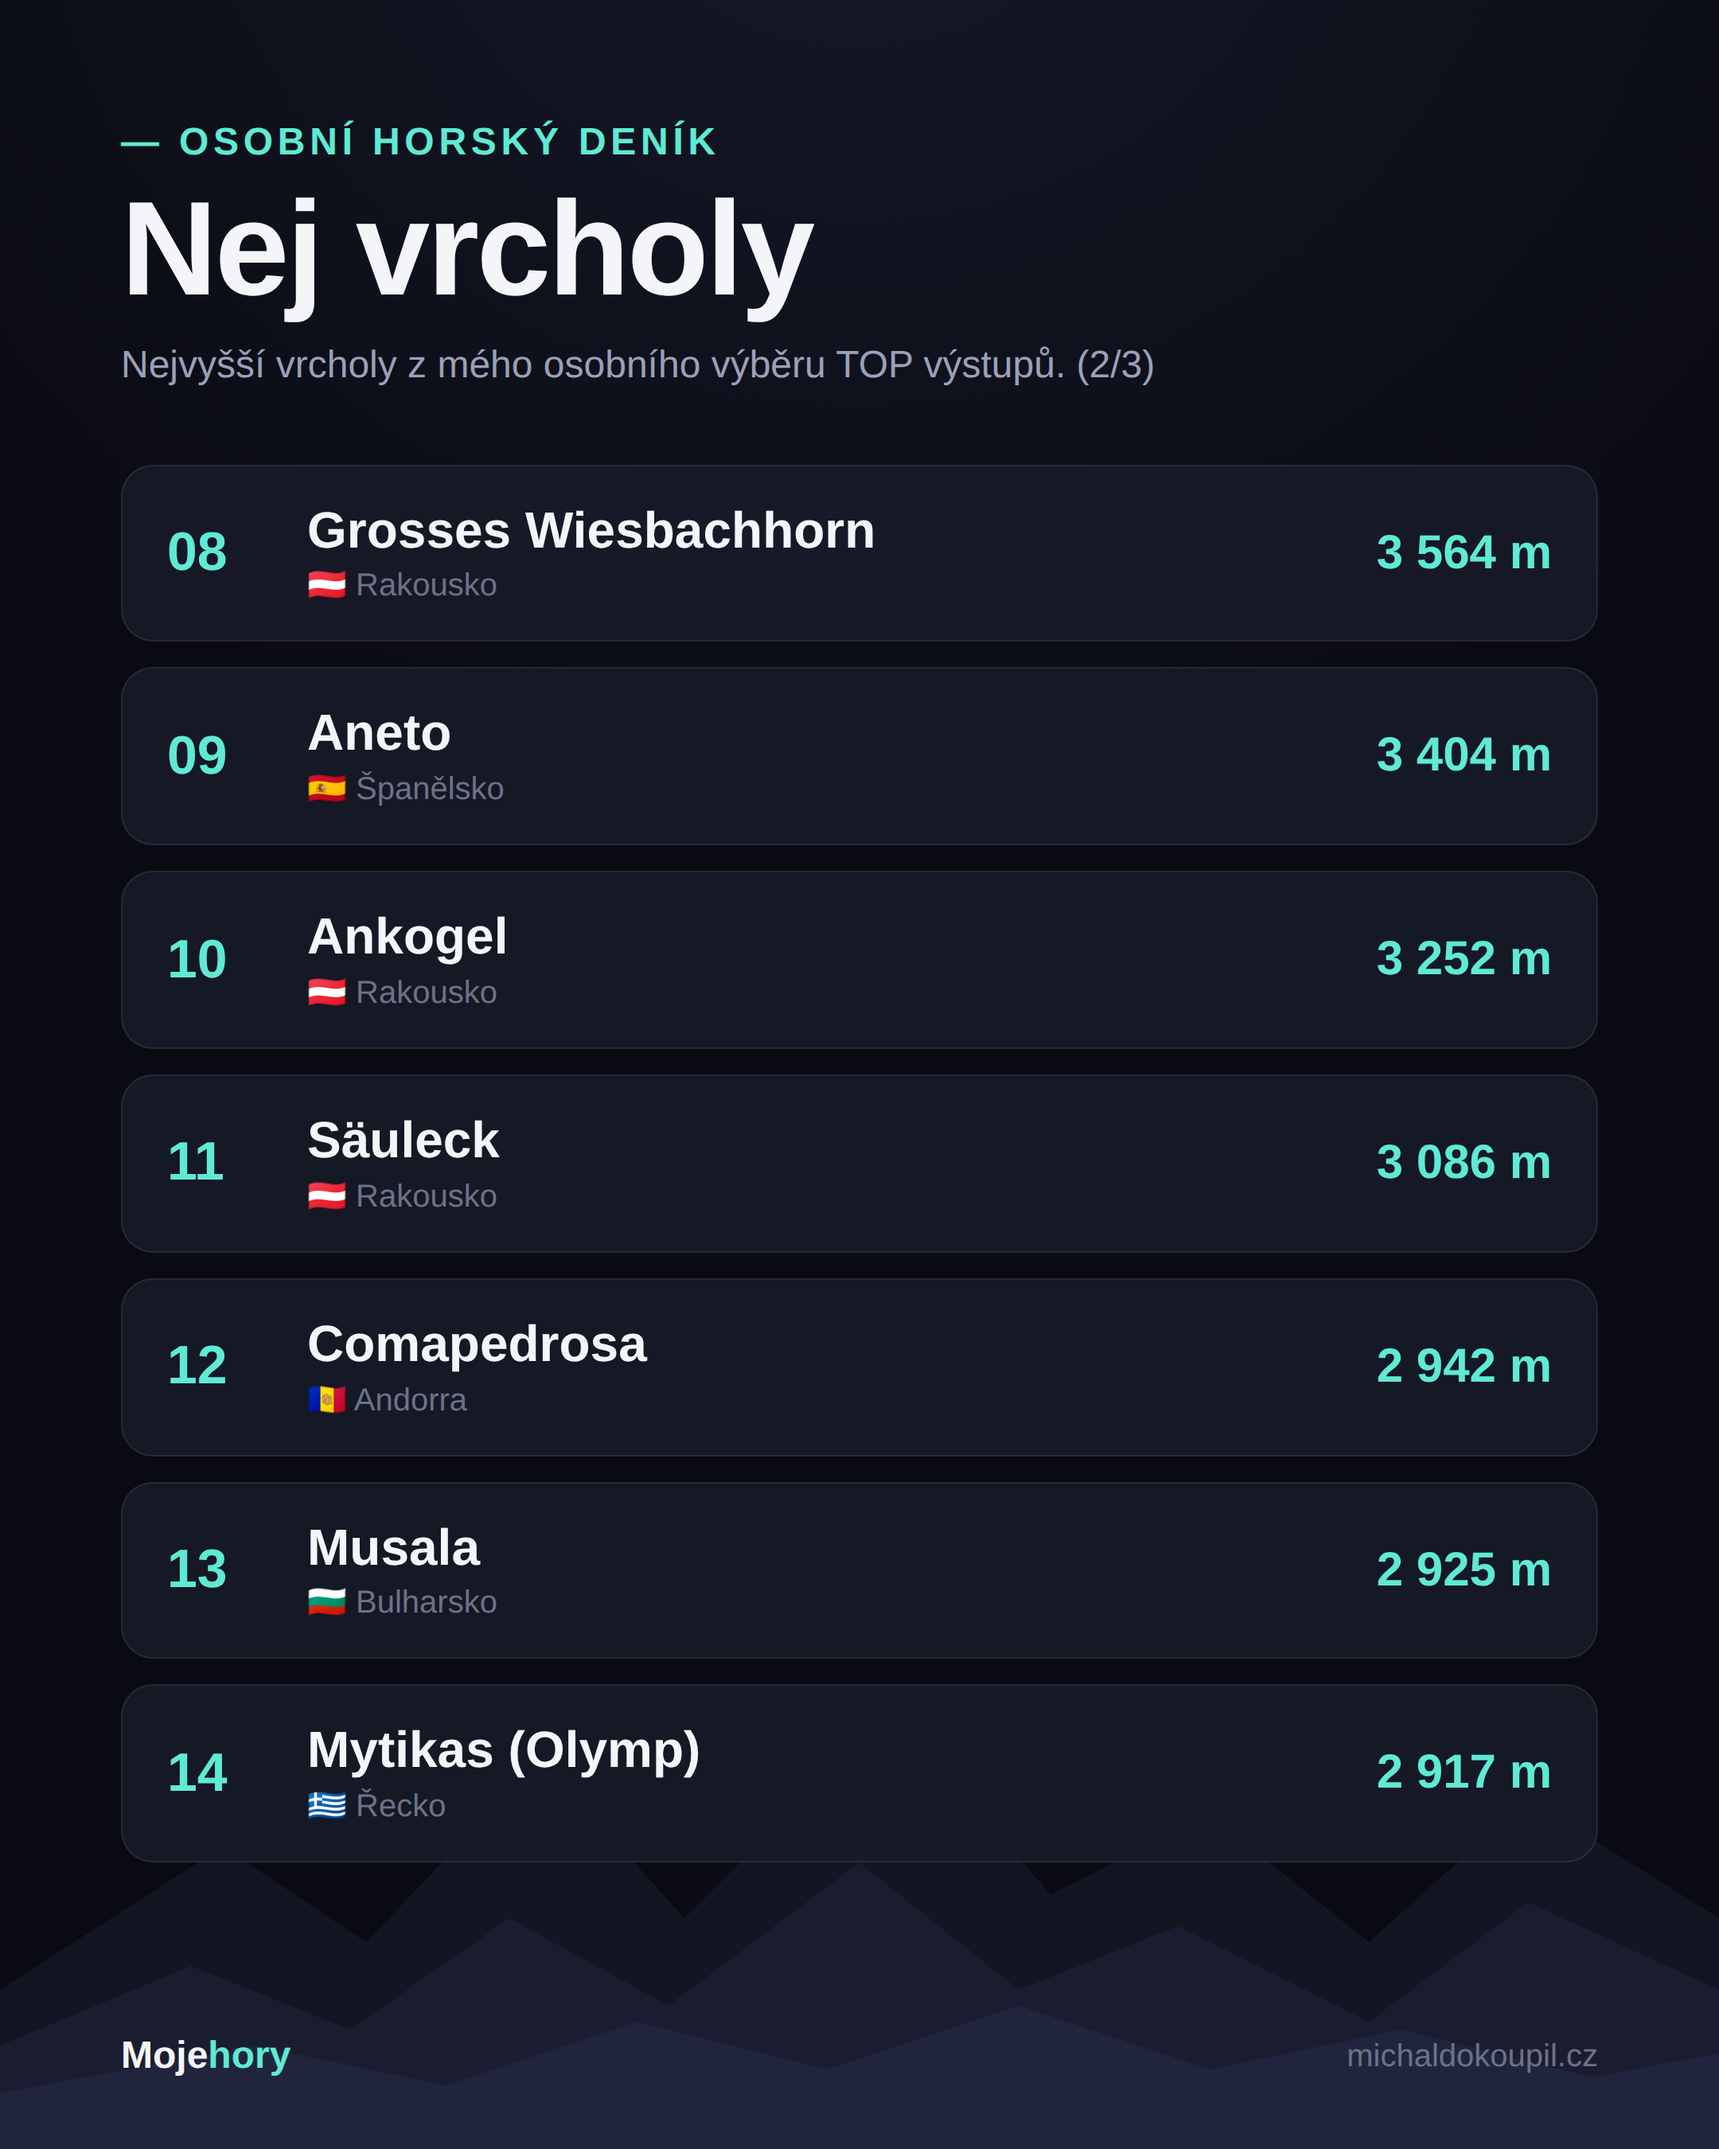
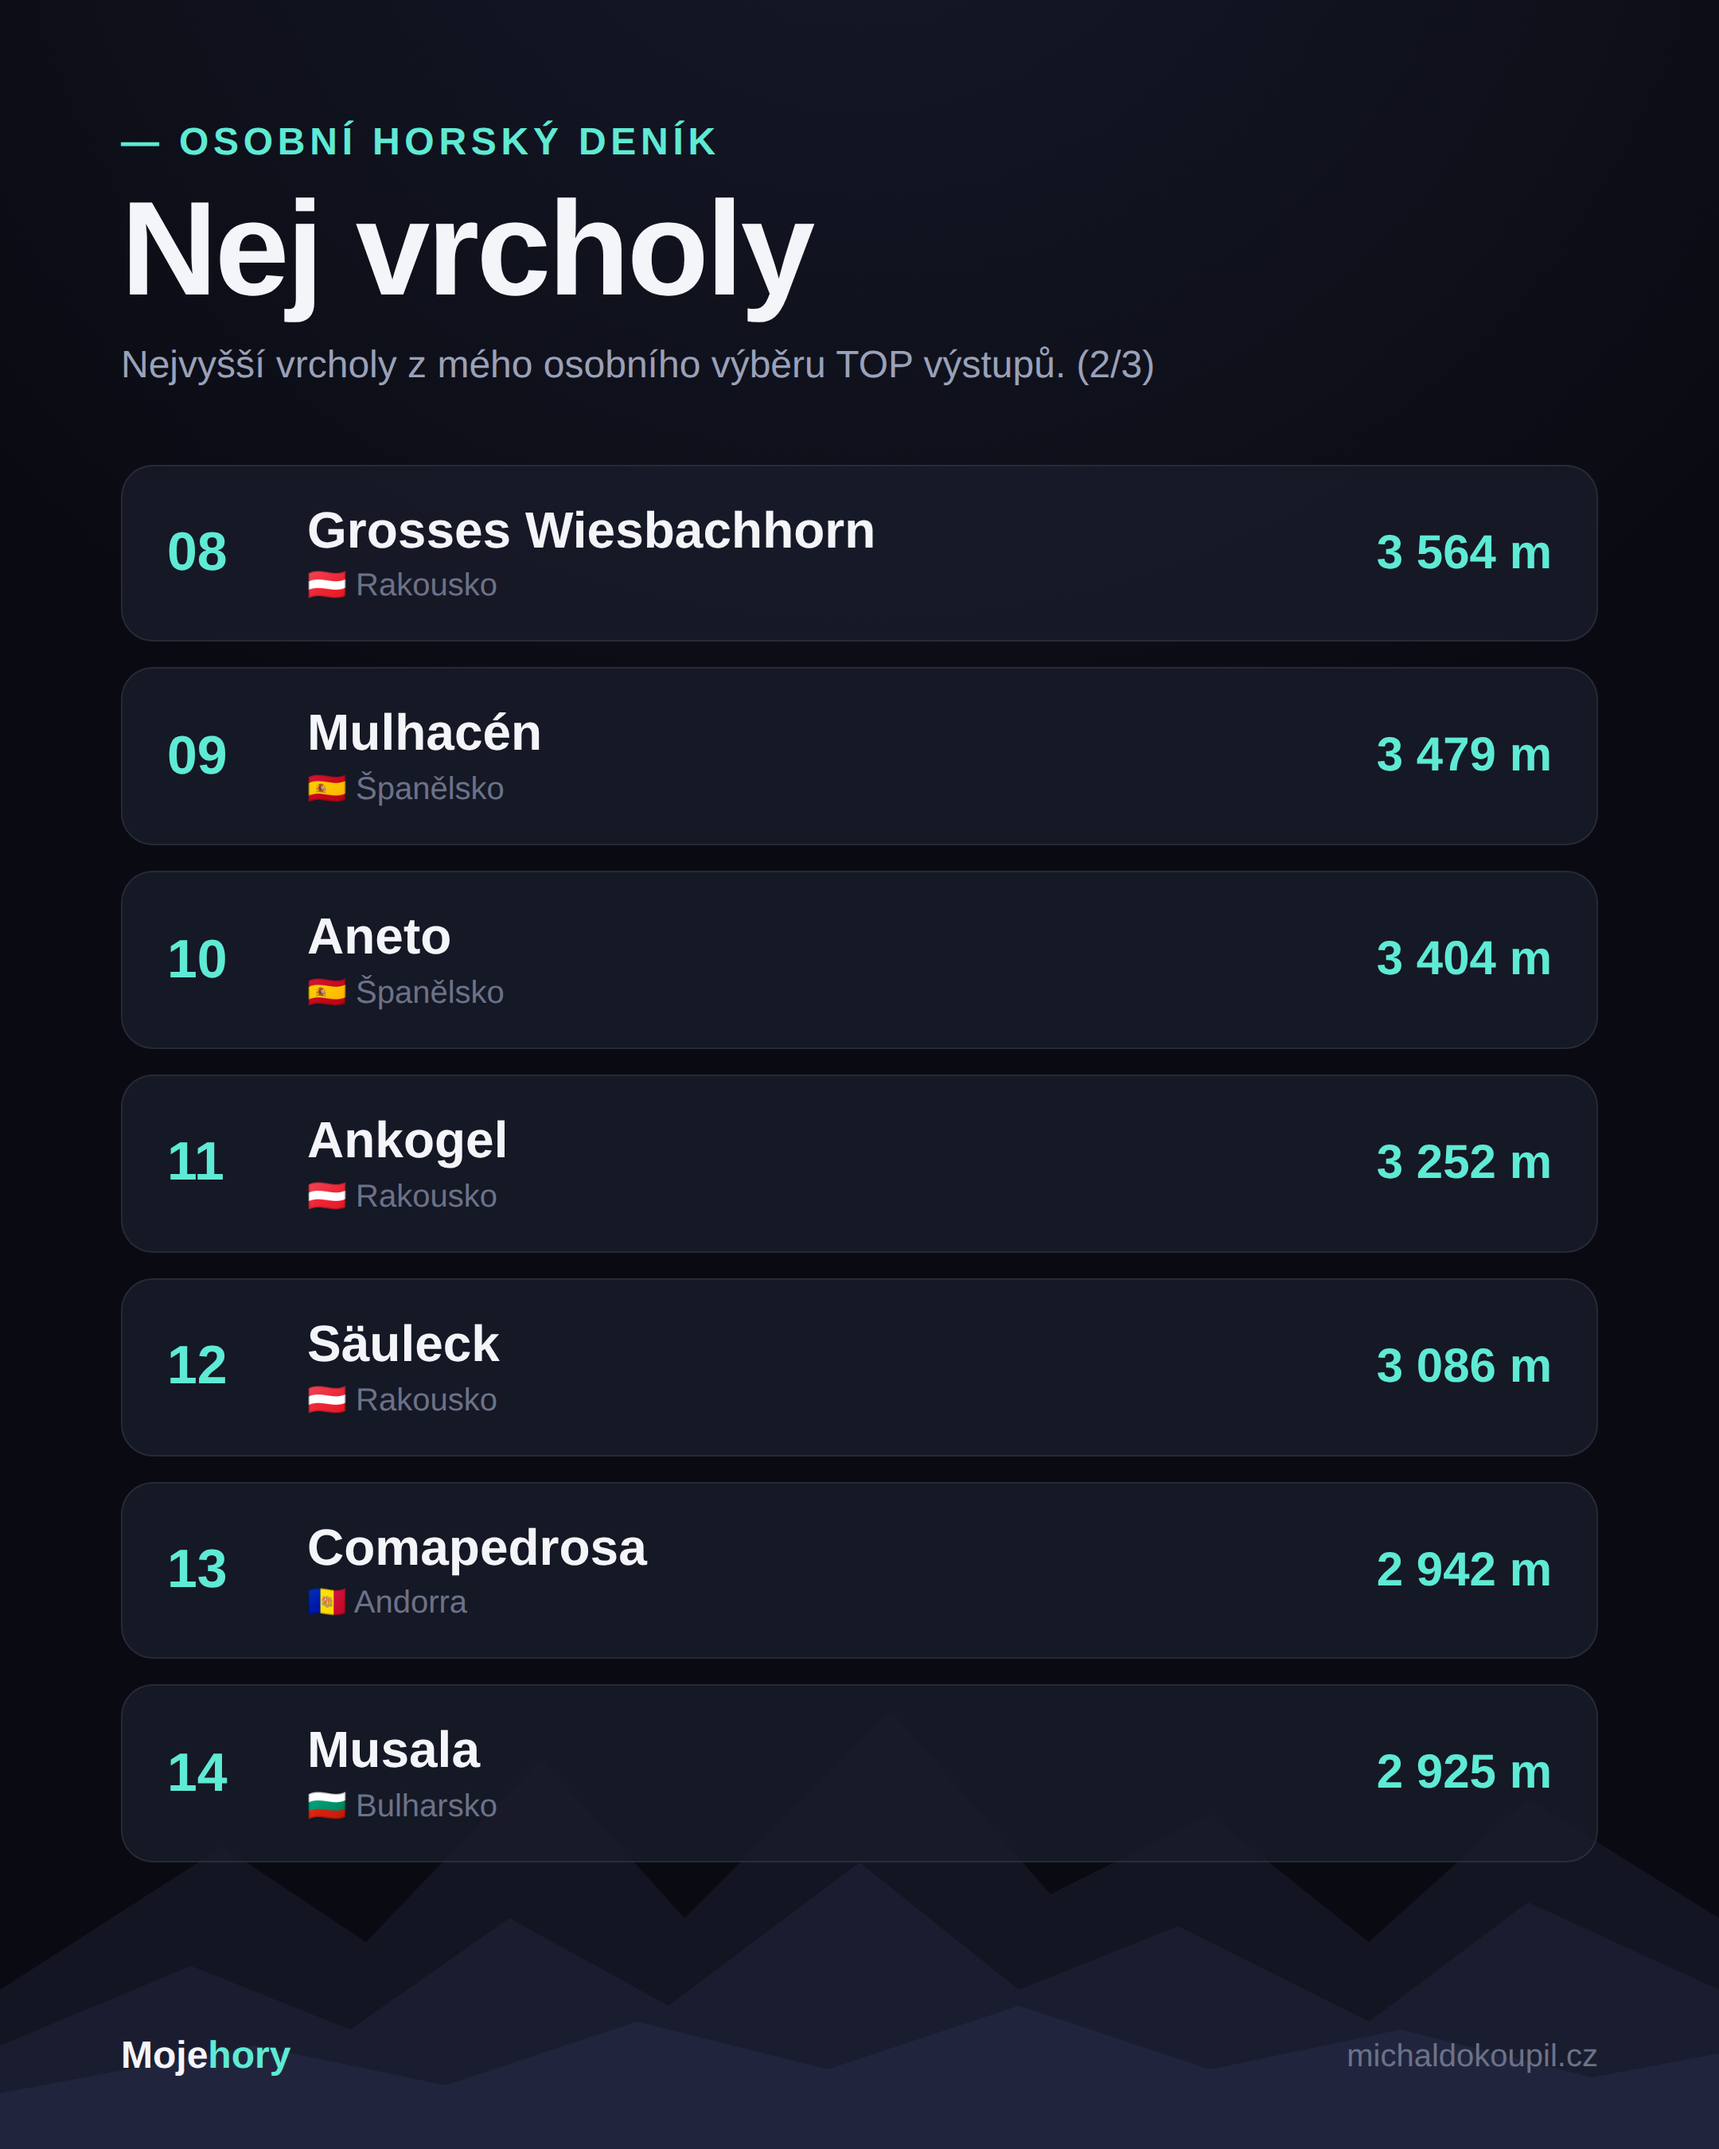
Přidat Mulhacén do TOP vrcholů (poslední chybějící 3000+)
Claude-Session: https://claude.ai/code/session_0119SFwnctGoA3U4LfHXsjFS

diff --git a/ferraty/widget/moje-hory-widget.html b/ferraty/widget/moje-hory-widget.html
@@ -167,7 +167,7 @@
     <div class="mh-widget-section">
       <div class="mh-widget-section__head">Nej vrcholy</div>
       
-      <div class="mh-widget-rows"><div class="mh-widget-row"><div class="mh-widget-row__main"><span class="mh-widget-row__name">Kazbek</span><span class="mh-widget-row__meta">🇬🇪 Gruzie</span></div><div class="mh-widget-row__value">5 047 m</div></div><div class="mh-widget-row"><div class="mh-widget-row__main"><span class="mh-widget-row__name">Toubkal</span><span class="mh-widget-row__meta">🇲🇦 Maroko</span></div><div class="mh-widget-row__value">4 167 m</div></div><div class="mh-widget-row"><div class="mh-widget-row__main"><span class="mh-widget-row__name">Aragats (severní vrchol)</span><span class="mh-widget-row__meta">🇦🇲 Arménie</span></div><div class="mh-widget-row__value">4 090 m</div></div><div class="mh-widget-row"><div class="mh-widget-row__main"><span class="mh-widget-row__name">Gran Paradiso</span><span class="mh-widget-row__meta">🇮🇹 Itálie</span></div><div class="mh-widget-row__value">4 061 m</div></div><div class="mh-widget-row"><div class="mh-widget-row__main"><span class="mh-widget-row__name">Grossglockner</span><span class="mh-widget-row__meta">🇦🇹 Rakousko</span></div><div class="mh-widget-row__value">3 798 m</div></div><div class="mh-widget-row"><div class="mh-widget-row__main"><span class="mh-widget-row__name">Teide</span><span class="mh-widget-row__meta">🇪🇸 Španělsko</span></div><div class="mh-widget-row__value">3 715 m</div></div><div class="mh-widget-row"><div class="mh-widget-row__main"><span class="mh-widget-row__name">Grossvenediger</span><span class="mh-widget-row__meta">🇦🇹 Rakousko</span></div><div class="mh-widget-row__value">3 657 m</div></div><div class="mh-widget-row"><div class="mh-widget-row__main"><span class="mh-widget-row__name">Grosses Wiesbachhorn</span><span class="mh-widget-row__meta">🇦🇹 Rakousko</span></div><div class="mh-widget-row__value">3 564 m</div></div><div class="mh-widget-row"><div class="mh-widget-row__main"><span class="mh-widget-row__name">Aneto</span><span class="mh-widget-row__meta">🇪🇸 Španělsko</span></div><div class="mh-widget-row__value">3 404 m</div></div><div class="mh-widget-row"><div class="mh-widget-row__main"><span class="mh-widget-row__name">Ankogel</span><span class="mh-widget-row__meta">🇦🇹 Rakousko</span></div><div class="mh-widget-row__value">3 252 m</div></div><div class="mh-widget-row"><div class="mh-widget-row__main"><span class="mh-widget-row__name">Säuleck</span><span class="mh-widget-row__meta">🇦🇹 Rakousko</span></div><div class="mh-widget-row__value">3 086 m</div></div><div class="mh-widget-row"><div class="mh-widget-row__main"><span class="mh-widget-row__name">Comapedrosa</span><span class="mh-widget-row__meta">🇦🇩 Andorra</span></div><div class="mh-widget-row__value">2 942 m</div></div><div class="mh-widget-row"><div class="mh-widget-row__main"><span class="mh-widget-row__name">Musala</span><span class="mh-widget-row__meta">🇧🇬 Bulharsko</span></div><div class="mh-widget-row__value">2 925 m</div></div><div class="mh-widget-row"><div class="mh-widget-row__main"><span class="mh-widget-row__name">Mytikas (Olymp)</span><span class="mh-widget-row__meta">🇬🇷 Řecko</span></div><div class="mh-widget-row__value">2 917 m</div></div><div class="mh-widget-row"><div class="mh-widget-row__main"><span class="mh-widget-row__name">Vihren</span><span class="mh-widget-row__meta">🇧🇬 Bulharsko</span></div><div class="mh-widget-row__value">2 914 m</div></div><div class="mh-widget-row"><div class="mh-widget-row__main"><span class="mh-widget-row__name">Triglav</span><span class="mh-widget-row__meta">🇸🇮 Slovinsko</span></div><div class="mh-widget-row__value">2 864 m</div></div></div>
+      <div class="mh-widget-rows"><div class="mh-widget-row"><div class="mh-widget-row__main"><span class="mh-widget-row__name">Kazbek</span><span class="mh-widget-row__meta">🇬🇪 Gruzie</span></div><div class="mh-widget-row__value">5 047 m</div></div><div class="mh-widget-row"><div class="mh-widget-row__main"><span class="mh-widget-row__name">Toubkal</span><span class="mh-widget-row__meta">🇲🇦 Maroko</span></div><div class="mh-widget-row__value">4 167 m</div></div><div class="mh-widget-row"><div class="mh-widget-row__main"><span class="mh-widget-row__name">Aragats (severní vrchol)</span><span class="mh-widget-row__meta">🇦🇲 Arménie</span></div><div class="mh-widget-row__value">4 090 m</div></div><div class="mh-widget-row"><div class="mh-widget-row__main"><span class="mh-widget-row__name">Gran Paradiso</span><span class="mh-widget-row__meta">🇮🇹 Itálie</span></div><div class="mh-widget-row__value">4 061 m</div></div><div class="mh-widget-row"><div class="mh-widget-row__main"><span class="mh-widget-row__name">Grossglockner</span><span class="mh-widget-row__meta">🇦🇹 Rakousko</span></div><div class="mh-widget-row__value">3 798 m</div></div><div class="mh-widget-row"><div class="mh-widget-row__main"><span class="mh-widget-row__name">Teide</span><span class="mh-widget-row__meta">🇪🇸 Španělsko</span></div><div class="mh-widget-row__value">3 715 m</div></div><div class="mh-widget-row"><div class="mh-widget-row__main"><span class="mh-widget-row__name">Grossvenediger</span><span class="mh-widget-row__meta">🇦🇹 Rakousko</span></div><div class="mh-widget-row__value">3 657 m</div></div><div class="mh-widget-row"><div class="mh-widget-row__main"><span class="mh-widget-row__name">Grosses Wiesbachhorn</span><span class="mh-widget-row__meta">🇦🇹 Rakousko</span></div><div class="mh-widget-row__value">3 564 m</div></div><div class="mh-widget-row"><div class="mh-widget-row__main"><span class="mh-widget-row__name">Mulhacén</span><span class="mh-widget-row__meta">🇪🇸 Španělsko</span></div><div class="mh-widget-row__value">3 479 m</div></div><div class="mh-widget-row"><div class="mh-widget-row__main"><span class="mh-widget-row__name">Aneto</span><span class="mh-widget-row__meta">🇪🇸 Španělsko</span></div><div class="mh-widget-row__value">3 404 m</div></div><div class="mh-widget-row"><div class="mh-widget-row__main"><span class="mh-widget-row__name">Ankogel</span><span class="mh-widget-row__meta">🇦🇹 Rakousko</span></div><div class="mh-widget-row__value">3 252 m</div></div><div class="mh-widget-row"><div class="mh-widget-row__main"><span class="mh-widget-row__name">Säuleck</span><span class="mh-widget-row__meta">🇦🇹 Rakousko</span></div><div class="mh-widget-row__value">3 086 m</div></div><div class="mh-widget-row"><div class="mh-widget-row__main"><span class="mh-widget-row__name">Comapedrosa</span><span class="mh-widget-row__meta">🇦🇩 Andorra</span></div><div class="mh-widget-row__value">2 942 m</div></div><div class="mh-widget-row"><div class="mh-widget-row__main"><span class="mh-widget-row__name">Musala</span><span class="mh-widget-row__meta">🇧🇬 Bulharsko</span></div><div class="mh-widget-row__value">2 925 m</div></div><div class="mh-widget-row"><div class="mh-widget-row__main"><span class="mh-widget-row__name">Mytikas (Olymp)</span><span class="mh-widget-row__meta">🇬🇷 Řecko</span></div><div class="mh-widget-row__value">2 917 m</div></div><div class="mh-widget-row"><div class="mh-widget-row__main"><span class="mh-widget-row__name">Vihren</span><span class="mh-widget-row__meta">🇧🇬 Bulharsko</span></div><div class="mh-widget-row__value">2 914 m</div></div></div>
     </div>
     <div class="mh-widget-section">
       <div class="mh-widget-section__head">Nej ferraty</div>

diff --git a/ferraty/social/moje-hory-social-4x5-4-vrcholy-3.html b/ferraty/social/moje-hory-social-4x5-4-vrcholy-3.html
@@ -50,31 +50,36 @@
   <div class="ranklist">
     <div class="rank-row">
       <div class="rank-num">15</div>
+      <div class="rank-main"><div class="rank-name">Mytikas (Olymp)</div><div class="rank-meta">🇬🇷 Řecko</div></div>
+      <div class="rank-value">2 917 m</div>
+    </div>
+    <div class="rank-row">
+      <div class="rank-num">16</div>
       <div class="rank-main"><div class="rank-name">Vihren</div><div class="rank-meta">🇧🇬 Bulharsko</div></div>
       <div class="rank-value">2 914 m</div>
     </div>
     <div class="rank-row">
-      <div class="rank-num">16</div>
+      <div class="rank-num">17</div>
       <div class="rank-main"><div class="rank-name">Triglav</div><div class="rank-meta">🇸🇮 Slovinsko</div></div>
       <div class="rank-value">2 864 m</div>
     </div>
     <div class="rank-row">
-      <div class="rank-num">17</div>
+      <div class="rank-num">18</div>
       <div class="rank-main"><div class="rank-name">Gerlachovský štít</div><div class="rank-meta">🇸🇰 Slovensko</div></div>
       <div class="rank-value">2 655 m</div>
     </div>
     <div class="rank-row">
-      <div class="rank-num">18</div>
+      <div class="rank-num">19</div>
       <div class="rank-main"><div class="rank-name">Moldoveanu</div><div class="rank-meta">🇷🇴 Rumunsko</div></div>
       <div class="rank-value">2 544 m</div>
     </div>
     <div class="rank-row">
-      <div class="rank-num">19</div>
+      <div class="rank-num">20</div>
       <div class="rank-main"><div class="rank-name">Lysá hora</div><div class="rank-meta">🇨🇿 Česko</div></div>
       <div class="rank-value">1 323 m</div>
     </div>
     <div class="rank-row">
-      <div class="rank-num">20</div>
+      <div class="rank-num">21</div>
       <div class="rank-main"><div class="rank-name">Smrk (Beskydy)</div><div class="rank-meta">🇨🇿 Česko</div></div>
       <div class="rank-value">1 276 m</div>
     </div>

diff --git a/ferraty/social/moje-hory-social-4x5-3-vrcholy-2.html b/ferraty/social/moje-hory-social-4x5-3-vrcholy-2.html
@@ -55,33 +55,33 @@
     </div>
     <div class="rank-row">
       <div class="rank-num">09</div>
+      <div class="rank-main"><div class="rank-name">Mulhacén</div><div class="rank-meta">🇪🇸 Španělsko</div></div>
+      <div class="rank-value">3 479 m</div>
+    </div>
+    <div class="rank-row">
+      <div class="rank-num">10</div>
       <div class="rank-main"><div class="rank-name">Aneto</div><div class="rank-meta">🇪🇸 Španělsko</div></div>
       <div class="rank-value">3 404 m</div>
     </div>
     <div class="rank-row">
-      <div class="rank-num">10</div>
+      <div class="rank-num">11</div>
       <div class="rank-main"><div class="rank-name">Ankogel</div><div class="rank-meta">🇦🇹 Rakousko</div></div>
       <div class="rank-value">3 252 m</div>
     </div>
     <div class="rank-row">
-      <div class="rank-num">11</div>
+      <div class="rank-num">12</div>
       <div class="rank-main"><div class="rank-name">Säuleck</div><div class="rank-meta">🇦🇹 Rakousko</div></div>
       <div class="rank-value">3 086 m</div>
     </div>
     <div class="rank-row">
-      <div class="rank-num">12</div>
+      <div class="rank-num">13</div>
       <div class="rank-main"><div class="rank-name">Comapedrosa</div><div class="rank-meta">🇦🇩 Andorra</div></div>
       <div class="rank-value">2 942 m</div>
     </div>
     <div class="rank-row">
-      <div class="rank-num">13</div>
+      <div class="rank-num">14</div>
       <div class="rank-main"><div class="rank-name">Musala</div><div class="rank-meta">🇧🇬 Bulharsko</div></div>
       <div class="rank-value">2 925 m</div>
-    </div>
-    <div class="rank-row">
-      <div class="rank-num">14</div>
-      <div class="rank-main"><div class="rank-name">Mytikas (Olymp)</div><div class="rank-meta">🇬🇷 Řecko</div></div>
-      <div class="rank-value">2 917 m</div>
     </div>
   </div>
 
